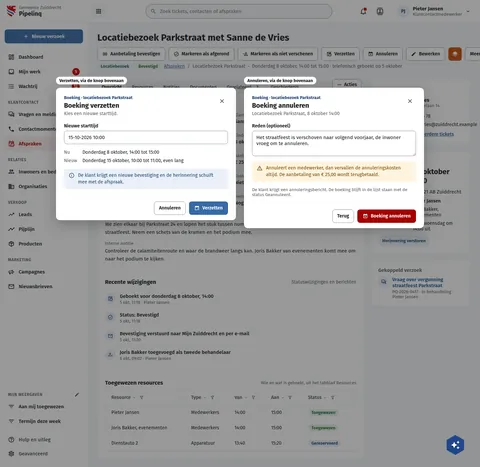
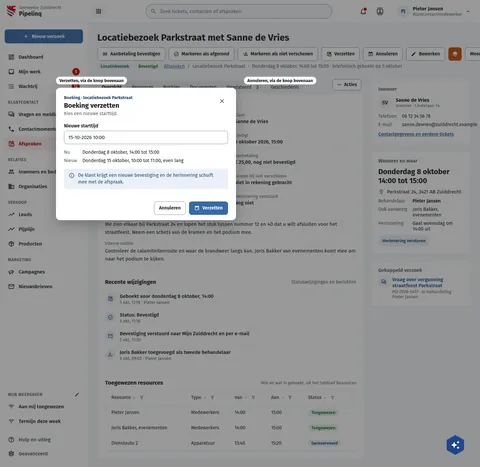
fix(screens): PqAfspraakVerplaatsen draws one dialog, the contacts lens reads Met deals (pl2)
PqAfspraakVerplaatsen drew the reschedule and the cancel dialog at once,
a state the booking page can never show; it keeps the reschedule dialog.
The contacts lens is "Met deals": it filters on contacts with a deal,
and a lens on contact fields cannot ask whether that deal is open (#2548).

Assisted-by: ClaudeCode:claude-opus-5-5

Changed region(s): [[0.5, 0.1799, 0.9062, 0.5096]]

diff --git a/preview/screens/boards/PqAfspraakVerplaatsen.html b/preview/screens/boards/PqAfspraakVerplaatsen.html
@@ -308,14 +308,7 @@ a{color:var(--sc-primary, #3669a5)}a:hover{color:var(--sc-primary-deep, #234a78)
       </div>
       <div style="padding: 20px 24px; display: flex; flex-direction: column; gap: 16px"><div style="display: flex; flex-direction: column; gap: 6px; min-width: 0"><label for="pq-rs-date" style="font-size: 14px; font-weight: 600">Nieuwe starttijd </label><input id="pq-rs-date" type="text" value="15-10-2026 10:00" placeholder="" required style="width: 100%; box-sizing: border-box; border: 1px solid var(--sc-work-field, #828a95); border-radius: 8px; font: 400 15px var(--sc-font, 'Fira Sans'), sans-serif; color: var(--sc-work-ink, #1b1c1d); background: #ffffff; height: 40px; padding: 0 12px"></div><dl style="margin: 0; display: grid; grid-template-columns: max-content 1fr; gap: 8px 16px; font-size: 14px"><dt style="color: var(--sc-work-muted, #5e6168)">Nu</dt><dd style="margin: 0">Donderdag 8 oktober, 14:00 tot 15:00</dd><dt style="color: var(--sc-work-muted, #5e6168)">Nieuw</dt><dd style="margin: 0">Donderdag 15 oktober, 10:00 tot 11:00, even lang</dd></dl><p role="status" style="margin: 0; display: flex; gap: 10px; align-items: flex-start; padding: 10px 14px; border-radius: 8px; background: var(--sc-primary-light, #eaf0f7); color: var(--sc-primary-deep, #234a78); font-size: 14px; line-height: 1.45"><svg width="18" height="18" viewbox="0 0 24 24" fill="currentColor" style="flex: none; margin-top: 1px"><path d="M11,9H13V7H11M12,20C7.59,20 4,16.41 4,12C4,7.59 7.59,4 12,4C16.41,4 20,7.59 20,12C20,16.41 16.41,20 12,20M12,2A10,10 0 0,0 2,12A10,10 0 0,0 12,22A10,10 0 0,0 22,12A10,10 0 0,0 12,2M11,17H13V11H11V17Z"></path></svg><span>De klant krijgt een nieuwe bevestiging en de herinnering schuift mee met de afspraak.</span></p></div>
       <div style="display: flex; flex-wrap: wrap; justify-content: flex-end; gap: 10px; padding: 16px 24px; border-top: 1px solid var(--sc-work-soft, #eef0f3)"><button type="button" style="display: flex; align-items: center; gap: 8px; height: 40px; padding: 0 14px; border: 1px solid var(--sc-work-field, #828a95); border-radius: 8px; background: #ffffff; font: 600 14px var(--sc-font, 'Fira Sans'), sans-serif; color: var(--sc-work-ink, #1b1c1d); white-space: nowrap">Annuleren</button><button type="button" style="display: flex; align-items: center; gap: 8px; height: 40px; padding: 0 16px; border: 0; border-radius: 8px; background: var(--sc-primary, #3669a5); color: #ffffff; font: 600 14px var(--sc-font, 'Fira Sans'), sans-serif; white-space: nowrap"><svg width="16" height="16" viewbox="0 0 24 24" fill="currentColor"><path d="M19 3H18V1H16V3H8V1H6V3H5C3.9 3 3 3.9 3 5V19C3 20.1 3.9 21 5 21H14C13.4 20.5 12.9 19.8 12.5 19H5V8H19V10.6C19.7 10.7 20.4 10.9 21 11.3V5C21 3.9 20.1 3 19 3M18 12.5C19.1 12.5 20.1 12.9 20.8 13.7L22 12.5V16.5H18L19.8 14.7C19.3 14.3 18.7 14 18 14C16.6 14 15.5 15.1 15.5 16.5S16.6 19 18 19C18.8 19 19.5 18.6 20 18H21.7C21.1 19.5 19.7 20.5 18 20.5C15.8 20.5 14 18.7 14 16.5S15.8 12.5 18 12.5Z"></path></svg>Verzetten</button></div>
-    </div></div><div style="flex: 1 1 460px; max-width: 540px; display: flex; flex-direction: column; gap: 10px"><span style="align-self: flex-start; padding: 4px 10px; border-radius: 12px; background: #ffffff; color: var(--sc-work-ink, #1b1c1d); font-size: 13px; font-weight: 700">Annuleren, via de knop bovenaan</span><div role="dialog" aria-modal="true" aria-labelledby="pq-cb-title" style="width: 100%; max-width: 560px; background: #ffffff; border-radius: 12px; box-shadow: 0 12px 40px rgba(27,28,29,0.28); display: flex; flex-direction: column">
-      <div style="display: flex; justify-content: space-between; align-items: flex-start; gap: 16px; padding: 22px 24px 0">
-        <div style="display: flex; flex-direction: column; gap: 4px"><span style="font-size: 13px; font-weight: 700; color: var(--sc-primary-deep, #234a78)">Boeking · locatiebezoek Parkstraat</span><h2 id="pq-cb-title" style="margin: 0; font-size: 20px; font-weight: 700">Boeking annuleren</h2><span style="font-size: 14px; color: var(--sc-work-muted, #5e6168)">Locatiebezoek Parkstraat, 8 oktober 14:00</span></div>
-        <button type="button" aria-label="Sluiten" title="Sluiten" style="width: 36px; height: 36px; flex: none; border: 0; border-radius: 18px; background: transparent; color: var(--sc-work-text, #3d4047); display: inline-flex; align-items: center; justify-content: center"><svg width="20" height="20" viewbox="0 0 24 24" fill="currentColor"><path d="M19,6.41L17.59,5L12,10.59L6.41,5L5,6.41L10.59,12L5,17.59L6.41,19L12,13.41L17.59,19L19,17.59L13.41,12L19,6.41Z"></path></svg></button>
-      </div>
-      <div style="padding: 20px 24px; display: flex; flex-direction: column; gap: 16px"><div style="display: flex; flex-direction: column; gap: 6px; min-width: 0"><label for="pq-cb-reason" style="font-size: 14px; font-weight: 600">Reden (optioneel)</label><textarea id="pq-cb-reason" rows="3" placeholder="Reden van annulering" style="width: 100%; box-sizing: border-box; border: 1px solid var(--sc-work-field, #828a95); border-radius: 8px; font: 400 15px var(--sc-font, 'Fira Sans'), sans-serif; color: var(--sc-work-ink, #1b1c1d); background: #ffffff; padding: 10px 12px; resize: vertical">Het straatfeest is verschoven naar volgend voorjaar, de inwoner vroeg om te annuleren.</textarea></div><p role="status" style="margin: 0; display: flex; gap: 10px; align-items: flex-start; padding: 10px 14px; border-radius: 8px; background: #fff4de; color: #7a4f00; font-size: 14px; line-height: 1.45"><svg width="18" height="18" viewbox="0 0 24 24" fill="currentColor" style="flex: none; margin-top: 1px"><path d="M12,2L1,21H23M12,6L19.53,19H4.47M11,10V14H13V10M11,16V18H13V16"></path></svg><span>Annuleert een medewerker, dan vervallen de annuleringskosten altijd. De aanbetaling van € 25,00 wordt terugbetaald.</span></p><span style="font-size: 13px; color: var(--sc-work-muted, #5e6168)">De klant krijgt een annuleringsbericht. De boeking blijft in de lijst staan met de status Geannuleerd.</span></div>
-      <div style="display: flex; flex-wrap: wrap; justify-content: flex-end; gap: 10px; padding: 16px 24px; border-top: 1px solid var(--sc-work-soft, #eef0f3)"><button type="button" style="display: flex; align-items: center; gap: 8px; height: 40px; padding: 0 14px; border: 1px solid var(--sc-work-field, #828a95); border-radius: 8px; background: #ffffff; font: 600 14px var(--sc-font, 'Fira Sans'), sans-serif; color: var(--sc-work-ink, #1b1c1d); white-space: nowrap">Terug</button><button type="button" style="display: flex; align-items: center; gap: 8px; height: 40px; padding: 0 16px; border: 0; border-radius: 8px; background: var(--sc-accent-deep, #a30000); color: #ffffff; font: 600 14px var(--sc-font, 'Fira Sans'), sans-serif; white-space: nowrap"><svg width="16" height="16" viewbox="0 0 24 24" fill="currentColor"><path d="M19,19H5V8H19M19,3H18V1H16V3H8V1H6V3H5C3.89,3 3,3.9 3,5V19A2,2 0 0,0 5,21H19A2,2 0 0,0 21,19V5A2,2 0 0,0 19,3M9.31,17L11.75,14.56L14.19,17L15.25,15.94L12.81,13.5L15.25,11.06L14.19,10L11.75,12.44L9.31,10L8.25,11.06L10.69,13.5L8.25,15.94L9.31,17Z"></path></svg>Boeking annuleren</button></div>
-    </div></div>
+    </div></div><div style="flex: 1 1 460px; max-width: 540px; display: flex; flex-direction: column; gap: 10px"><span style="align-self: flex-start; padding: 4px 10px; border-radius: 12px; background: #ffffff; color: var(--sc-work-ink, #1b1c1d); font-size: 13px; font-weight: 700">Annuleren, via de knop bovenaan</span></div>
   </div>
 </div>
 <button type="button" aria-label="AI-chat openen" data-sc-ai-chat="button" style="position: fixed; z-index: 9000; right: 48px; bottom: 36px; display: flex; align-items: center; justify-content: center; width: 52px; height: 60px; padding: 0; margin: 0; border: 0; border-radius: 0; background: transparent; color: #ffffff; cursor: pointer"><span style="display: flex; align-items: center; justify-content: center; width: 100%; height: 100%; background: #21468b; clip-path: polygon(50% 0%, 100% 25%, 100% 75%, 50% 100%, 0% 75%, 0% 25%); filter: drop-shadow(0 4px 10px rgba(0, 0, 0, 0.25))"><svg width="28" height="28" viewbox="0 0 24 24" fill="currentColor" aria-hidden="true"><path d="M19,1L17.74,3.75L15,5L17.74,6.26L19,9L20.25,6.26L23,5L20.25,3.75M9,4L6.5,9.5L1,12L6.5,14.5L9,20L11.5,14.5L17,12L11.5,9.5M19,15L17.74,17.74L15,19L17.74,20.25L19,23L20.25,20.25L23,19L20.25,17.74"></path></svg></span></button>

diff --git a/screens-src/zuiddrecht/PqAfspraakVerplaatsen.dc.html b/screens-src/zuiddrecht/PqAfspraakVerplaatsen.dc.html
@@ -115,14 +115,7 @@ a{color:#3669a5}a:hover{color:#234a78}
       </div>
       <div style="padding: 20px 24px; display: flex; flex-direction: column; gap: 16px"><div style="display: flex; flex-direction: column; gap: 6px; min-width: 0"><label for="pq-rs-date" style="font-size: 14px; font-weight: 600">Nieuwe starttijd </label><input id="pq-rs-date" type="text" value="15-10-2026 10:00" placeholder="" required style="width: 100%; box-sizing: border-box; border: 1px solid #828a95; border-radius: 8px; font: 400 15px 'Fira Sans', sans-serif; color: #1b1c1d; background: #ffffff; height: 40px; padding: 0 12px"></div><dl style="margin: 0; display: grid; grid-template-columns: max-content 1fr; gap: 8px 16px; font-size: 14px"><dt style="color: #5e6168">Nu</dt><dd style="margin: 0">Donderdag 8 oktober, 14:00 tot 15:00</dd><dt style="color: #5e6168">Nieuw</dt><dd style="margin: 0">Donderdag 15 oktober, 10:00 tot 11:00, even lang</dd></dl><p role="status" style="margin: 0; display: flex; gap: 10px; align-items: flex-start; padding: 10px 14px; border-radius: 8px; background: #eaf0f7; color: #234a78; font-size: 14px; line-height: 1.45"><svg width="18" height="18" viewBox="0 0 24 24" fill="currentColor" style="flex: none; margin-top: 1px"><path d="M11,9H13V7H11M12,20C7.59,20 4,16.41 4,12C4,7.59 7.59,4 12,4C16.41,4 20,7.59 20,12C20,16.41 16.41,20 12,20M12,2A10,10 0 0,0 2,12A10,10 0 0,0 12,22A10,10 0 0,0 22,12A10,10 0 0,0 12,2M11,17H13V11H11V17Z"></path></svg><span>De klant krijgt een nieuwe bevestiging en de herinnering schuift mee met de afspraak.</span></p></div>
       <div style="display: flex; flex-wrap: wrap; justify-content: flex-end; gap: 10px; padding: 16px 24px; border-top: 1px solid #eef0f3"><button type="button" style="display: flex; align-items: center; gap: 8px; height: 40px; padding: 0 14px; border: 1px solid #828a95; border-radius: 8px; background: #ffffff; font: 600 14px 'Fira Sans', sans-serif; color: #1b1c1d; white-space: nowrap">Annuleren</button><button type="button" style="display: flex; align-items: center; gap: 8px; height: 40px; padding: 0 16px; border: 0; border-radius: 8px; background: #3669a5; color: #ffffff; font: 600 14px 'Fira Sans', sans-serif; white-space: nowrap"><svg width="16" height="16" viewBox="0 0 24 24" fill="currentColor"><path d="M19 3H18V1H16V3H8V1H6V3H5C3.9 3 3 3.9 3 5V19C3 20.1 3.9 21 5 21H14C13.4 20.5 12.9 19.8 12.5 19H5V8H19V10.6C19.7 10.7 20.4 10.9 21 11.3V5C21 3.9 20.1 3 19 3M18 12.5C19.1 12.5 20.1 12.9 20.8 13.7L22 12.5V16.5H18L19.8 14.7C19.3 14.3 18.7 14 18 14C16.6 14 15.5 15.1 15.5 16.5S16.6 19 18 19C18.8 19 19.5 18.6 20 18H21.7C21.1 19.5 19.7 20.5 18 20.5C15.8 20.5 14 18.7 14 16.5S15.8 12.5 18 12.5Z"></path></svg>Verzetten</button></div>
-    </div></div><div style="flex: 1 1 460px; max-width: 540px; display: flex; flex-direction: column; gap: 10px"><span style="align-self: flex-start; padding: 4px 10px; border-radius: 12px; background: #ffffff; color: #1b1c1d; font-size: 13px; font-weight: 700">Annuleren, via de knop bovenaan</span><div role="dialog" aria-modal="true" aria-labelledby="pq-cb-title" style="width: 100%; max-width: 560px; background: #ffffff; border-radius: 12px; box-shadow: 0 12px 40px rgba(27,28,29,0.28); display: flex; flex-direction: column">
-      <div style="display: flex; justify-content: space-between; align-items: flex-start; gap: 16px; padding: 22px 24px 0">
-        <div style="display: flex; flex-direction: column; gap: 4px"><span style="font-size: 13px; font-weight: 700; color: #234a78">Boeking · locatiebezoek Parkstraat</span><h2 id="pq-cb-title" style="margin: 0; font-size: 20px; font-weight: 700">Boeking annuleren</h2><span style="font-size: 14px; color: #5e6168">Locatiebezoek Parkstraat, 8 oktober 14:00</span></div>
-        <button type="button" aria-label="Sluiten" title="Sluiten" style="width: 36px; height: 36px; flex: none; border: 0; border-radius: 18px; background: transparent; color: #3d4047; display: inline-flex; align-items: center; justify-content: center"><svg width="20" height="20" viewBox="0 0 24 24" fill="currentColor"><path d="M19,6.41L17.59,5L12,10.59L6.41,5L5,6.41L10.59,12L5,17.59L6.41,19L12,13.41L17.59,19L19,17.59L13.41,12L19,6.41Z"></path></svg></button>
-      </div>
-      <div style="padding: 20px 24px; display: flex; flex-direction: column; gap: 16px"><div style="display: flex; flex-direction: column; gap: 6px; min-width: 0"><label for="pq-cb-reason" style="font-size: 14px; font-weight: 600">Reden (optioneel)</label><textarea id="pq-cb-reason" rows="3" placeholder="Reden van annulering" style="width: 100%; box-sizing: border-box; border: 1px solid #828a95; border-radius: 8px; font: 400 15px 'Fira Sans', sans-serif; color: #1b1c1d; background: #ffffff; padding: 10px 12px; resize: vertical">Het straatfeest is verschoven naar volgend voorjaar, de inwoner vroeg om te annuleren.</textarea></div><p role="status" style="margin: 0; display: flex; gap: 10px; align-items: flex-start; padding: 10px 14px; border-radius: 8px; background: #fff4de; color: #7a4f00; font-size: 14px; line-height: 1.45"><svg width="18" height="18" viewBox="0 0 24 24" fill="currentColor" style="flex: none; margin-top: 1px"><path d="M12,2L1,21H23M12,6L19.53,19H4.47M11,10V14H13V10M11,16V18H13V16"></path></svg><span>Annuleert een medewerker, dan vervallen de annuleringskosten altijd. De aanbetaling van € 25,00 wordt terugbetaald.</span></p><span style="font-size: 13px; color: #5e6168">De klant krijgt een annuleringsbericht. De boeking blijft in de lijst staan met de status Geannuleerd.</span></div>
-      <div style="display: flex; flex-wrap: wrap; justify-content: flex-end; gap: 10px; padding: 16px 24px; border-top: 1px solid #eef0f3"><button type="button" style="display: flex; align-items: center; gap: 8px; height: 40px; padding: 0 14px; border: 1px solid #828a95; border-radius: 8px; background: #ffffff; font: 600 14px 'Fira Sans', sans-serif; color: #1b1c1d; white-space: nowrap">Terug</button><button type="button" style="display: flex; align-items: center; gap: 8px; height: 40px; padding: 0 16px; border: 0; border-radius: 8px; background: #a30000; color: #ffffff; font: 600 14px 'Fira Sans', sans-serif; white-space: nowrap"><svg width="16" height="16" viewBox="0 0 24 24" fill="currentColor"><path d="M19,19H5V8H19M19,3H18V1H16V3H8V1H6V3H5C3.89,3 3,3.9 3,5V19A2,2 0 0,0 5,21H19A2,2 0 0,0 21,19V5A2,2 0 0,0 19,3M9.31,17L11.75,14.56L14.19,17L15.25,15.94L12.81,13.5L15.25,11.06L14.19,10L11.75,12.44L9.31,10L8.25,11.06L10.69,13.5L8.25,15.94L9.31,17Z"></path></svg>Boeking annuleren</button></div>
-    </div></div>
+    </div></div><div style="flex: 1 1 460px; max-width: 540px; display: flex; flex-direction: column; gap: 10px"><span style="align-self: flex-start; padding: 4px 10px; border-radius: 12px; background: #ffffff; color: #1b1c1d; font-size: 13px; font-weight: 700">Annuleren, via de knop bovenaan</span></div>
   </div>
 </div>
 </x-dc>

diff --git a/preview/screens/boards/PqContacten.html b/preview/screens/boards/PqContacten.html
@@ -243,7 +243,7 @@ a{color:var(--sc-primary, #3669a5)}a:hover{color:var(--sc-primary-deep, #234a78)
           
             <button type="button" aria-pressed="true" style="display: flex; align-items: center; gap: 8px; height: 38px; padding: 0 14px; border-radius: 19px; font: 600 14px var(--sc-font, 'Fira Sans'), sans-serif; border: 0; background: var(--sc-work-ink, #1b1c1d); color: #ffffff;">Alle<span style="padding: 1px 7px; border-radius: 10px; font-size: 12px; background: var(--sc-work-text, #3d4047); color: #ffffff;">186</span></button>
           
-            <button type="button" aria-pressed="false" style="display: flex; align-items: center; gap: 8px; height: 38px; padding: 0 14px; border-radius: 19px; font: 600 14px var(--sc-font, 'Fira Sans'), sans-serif; border: 1px solid var(--sc-work-field, #828a95); background: #ffffff; color: var(--sc-work-ink, #1b1c1d);">Met open deals<span style="padding: 1px 7px; border-radius: 10px; font-size: 12px; background: var(--sc-work-line, #e4e6ea); color: var(--sc-work-text, #3d4047);">14</span></button>
+            <button type="button" aria-pressed="false" style="display: flex; align-items: center; gap: 8px; height: 38px; padding: 0 14px; border-radius: 19px; font: 600 14px var(--sc-font, 'Fira Sans'), sans-serif; border: 1px solid var(--sc-work-field, #828a95); background: #ffffff; color: var(--sc-work-ink, #1b1c1d);">Met deals<span style="padding: 1px 7px; border-radius: 10px; font-size: 12px; background: var(--sc-work-line, #e4e6ea); color: var(--sc-work-text, #3d4047);">14</span></button>
           
           <span style="flex: 1"></span>
           <button type="button" aria-expanded="false" style="display: inline-flex; align-items: center; gap: 8px; height: 36px; padding: 0 12px; border: 1px solid var(--sc-work-field, #828a95); border-radius: 8px; background: #ffffff; font: 600 14px var(--sc-font, 'Fira Sans'), sans-serif; color: var(--sc-work-ink, #1b1c1d)"><svg width="16" height="16" viewbox="0 0 24 24" fill="currentColor"><path d="M8 13C6.14 13 4.59 14.28 4.14 16H2V18H4.14C4.59 19.72 6.14 21 8 21S11.41 19.72 11.86 18H22V16H11.86C11.41 14.28 9.86 13 8 13M8 19C6.9 19 6 18.1 6 17C6 15.9 6.9 15 8 15S10 15.9 10 17C10 18.1 9.1 19 8 19M19.86 6C19.41 4.28 17.86 3 16 3S12.59 4.28 12.14 6H2V8H12.14C12.59 9.72 14.14 11 16 11S19.41 9.72 19.86 8H22V6H19.86M16 9C14.9 9 14 8.1 14 7C14 5.9 14.9 5 16 5S18 5.9 18 7C18 8.1 17.1 9 16 9Z"></path></svg>Filter</button>

diff --git a/preview/screens/boards/PqContactenImporteren.html b/preview/screens/boards/PqContactenImporteren.html
@@ -243,7 +243,7 @@ a{color:var(--sc-primary, #3669a5)}a:hover{color:var(--sc-primary-deep, #234a78)
           
             <button type="button" aria-pressed="true" style="display: flex; align-items: center; gap: 8px; height: 38px; padding: 0 14px; border-radius: 19px; font: 600 14px var(--sc-font, 'Fira Sans'), sans-serif; border: 0; background: var(--sc-work-ink, #1b1c1d); color: #ffffff;">Alle<span style="padding: 1px 7px; border-radius: 10px; font-size: 12px; background: var(--sc-work-text, #3d4047); color: #ffffff;">186</span></button>
           
-            <button type="button" aria-pressed="false" style="display: flex; align-items: center; gap: 8px; height: 38px; padding: 0 14px; border-radius: 19px; font: 600 14px var(--sc-font, 'Fira Sans'), sans-serif; border: 1px solid var(--sc-work-field, #828a95); background: #ffffff; color: var(--sc-work-ink, #1b1c1d);">Met open deals<span style="padding: 1px 7px; border-radius: 10px; font-size: 12px; background: var(--sc-work-line, #e4e6ea); color: var(--sc-work-text, #3d4047);">14</span></button>
+            <button type="button" aria-pressed="false" style="display: flex; align-items: center; gap: 8px; height: 38px; padding: 0 14px; border-radius: 19px; font: 600 14px var(--sc-font, 'Fira Sans'), sans-serif; border: 1px solid var(--sc-work-field, #828a95); background: #ffffff; color: var(--sc-work-ink, #1b1c1d);">Met deals<span style="padding: 1px 7px; border-radius: 10px; font-size: 12px; background: var(--sc-work-line, #e4e6ea); color: var(--sc-work-text, #3d4047);">14</span></button>
           
           <span style="flex: 1"></span>
           <button type="button" aria-expanded="false" style="display: inline-flex; align-items: center; gap: 8px; height: 36px; padding: 0 12px; border: 1px solid var(--sc-work-field, #828a95); border-radius: 8px; background: #ffffff; font: 600 14px var(--sc-font, 'Fira Sans'), sans-serif; color: var(--sc-work-ink, #1b1c1d)"><svg width="16" height="16" viewbox="0 0 24 24" fill="currentColor"><path d="M8 13C6.14 13 4.59 14.28 4.14 16H2V18H4.14C4.59 19.72 6.14 21 8 21S11.41 19.72 11.86 18H22V16H11.86C11.41 14.28 9.86 13 8 13M8 19C6.9 19 6 18.1 6 17C6 15.9 6.9 15 8 15S10 15.9 10 17C10 18.1 9.1 19 8 19M19.86 6C19.41 4.28 17.86 3 16 3S12.59 4.28 12.14 6H2V8H12.14C12.59 9.72 14.14 11 16 11S19.41 9.72 19.86 8H22V6H19.86M16 9C14.9 9 14 8.1 14 7C14 5.9 14.9 5 16 5S18 5.9 18 7C18 8.1 17.1 9 16 9Z"></path></svg>Filter</button>

diff --git a/screens-src/zuiddrecht/PqContactenImporteren.dc.html b/screens-src/zuiddrecht/PqContactenImporteren.dc.html
@@ -92,7 +92,7 @@ class Component extends DCLogic {
       ];
       const view = (on) => 'display: flex; align-items: center; gap: 8px; height: 38px; padding: 0 14px; border-radius: 19px; font: 600 14px \'Fira Sans\', sans-serif; ' + (on ? 'border: 0; background: #1b1c1d; color: #ffffff;' : 'border: 1px solid #828a95; background: #ffffff; color: #1b1c1d;');
       const cnt = (on) => 'padding: 1px 7px; border-radius: 10px; font-size: 12px; ' + (on ? 'background: #3d4047; color: #ffffff;' : 'background: #e4e6ea; color: #3d4047;');
-      const views = [["Alle", 186, true], ["Met open deals", 14, false]].map(([label, count, on]) => ({ label, count, pressed: on ? 'true' : 'false', style: view(on), countStyle: cnt(on) }));
+      const views = [["Alle", 186, true], ["Met deals", 14, false]].map(([label, count, on]) => ({ label, count, pressed: on ? 'true' : 'false', style: view(on), countStyle: cnt(on) }));
       const seg = (on) => 'display: inline-flex; align-items: center; justify-content: center; width: 40px; height: 34px; border: 0; border-radius: 6px; cursor: pointer; ' + (on ? 'background: #ffffff; color: #1b1c1d; box-shadow: 0 1px 2px rgba(27,28,29,0.12);' : 'background: transparent; color: #3d4047;');
       const modes = [["Tabel", 'M7,5H21V7H7V5M7,13V11H21V13H7M4,4.5A1.5,1.5 0 0,1 5.5,6A1.5,1.5 0 0,1 4,7.5A1.5,1.5 0 0,1 2.5,6A1.5,1.5 0 0,1 4,4.5M4,10.5A1.5,1.5 0 0,1 5.5,12A1.5,1.5 0 0,1 4,13.5A1.5,1.5 0 0,1 2.5,12A1.5,1.5 0 0,1 4,10.5M7,19V17H21V19H7M4,16.5A1.5,1.5 0 0,1 5.5,18A1.5,1.5 0 0,1 4,19.5A1.5,1.5 0 0,1 2.5,18A1.5,1.5 0 0,1 4,16.5Z', true], ["Kaarten", 'M3 11H11V3H3M5 5H9V9H5M13 21H21V13H13M15 15H19V19H15M3 21H11V13H3M5 15H9V19H5M13 3V11H21V3M19 9H15V5H19Z', false], ["Bord", 'M4 5V18H21V5H4M14 7V16H11V7H14M6 7H9V16H6V7M19 16H16V7H19V16Z', false], ["Map", 'M12,6.5A2.5,2.5 0 0,1 14.5,9A2.5,2.5 0 0,1 12,11.5A2.5,2.5 0 0,1 9.5,9A2.5,2.5 0 0,1 12,6.5M12,2A7,7 0 0,1 19,9C19,14.25 12,22 12,22C12,22 5,14.25 5,9A7,7 0 0,1 12,2M12,4A5,5 0 0,0 7,9C7,10 7,12 12,18.71C17,12 17,10 17,9A5,5 0 0,0 12,4Z', false]].map(([label, icon, on]) => ({ label, icon, pressed: on ? 'true' : 'false', style: seg(on) }));
       return { nav, views, modes };

diff --git a/screens-src/zuiddrecht/PqContacten.dc.html b/screens-src/zuiddrecht/PqContacten.dc.html
@@ -82,7 +82,7 @@ class Component extends DCLogic {
     ];
     const view = (on) => 'display: flex; align-items: center; gap: 8px; height: 38px; padding: 0 14px; border-radius: 19px; font: 600 14px \'Fira Sans\', sans-serif; ' + (on ? 'border: 0; background: #1b1c1d; color: #ffffff;' : 'border: 1px solid #828a95; background: #ffffff; color: #1b1c1d;');
     const cnt = (on) => 'padding: 1px 7px; border-radius: 10px; font-size: 12px; ' + (on ? 'background: #3d4047; color: #ffffff;' : 'background: #e4e6ea; color: #3d4047;');
-    const views = [["Alle", 186, true], ["Met open deals", 14, false]].map(([label, count, on]) => ({ label, count, pressed: on ? 'true' : 'false', style: view(on), countStyle: cnt(on) }));
+    const views = [["Alle", 186, true], ["Met deals", 14, false]].map(([label, count, on]) => ({ label, count, pressed: on ? 'true' : 'false', style: view(on), countStyle: cnt(on) }));
     const seg = (on) => 'display: inline-flex; align-items: center; justify-content: center; width: 40px; height: 34px; border: 0; border-radius: 6px; cursor: pointer; ' + (on ? 'background: #ffffff; color: #1b1c1d; box-shadow: 0 1px 2px rgba(27,28,29,0.12);' : 'background: transparent; color: #3d4047;');
     const modes = [["Tabel", 'M7,5H21V7H7V5M7,13V11H21V13H7M4,4.5A1.5,1.5 0 0,1 5.5,6A1.5,1.5 0 0,1 4,7.5A1.5,1.5 0 0,1 2.5,6A1.5,1.5 0 0,1 4,4.5M4,10.5A1.5,1.5 0 0,1 5.5,12A1.5,1.5 0 0,1 4,13.5A1.5,1.5 0 0,1 2.5,12A1.5,1.5 0 0,1 4,10.5M7,19V17H21V19H7M4,16.5A1.5,1.5 0 0,1 5.5,18A1.5,1.5 0 0,1 4,19.5A1.5,1.5 0 0,1 2.5,18A1.5,1.5 0 0,1 4,16.5Z', true], ["Kaarten", 'M3 11H11V3H3M5 5H9V9H5M13 21H21V13H13M15 15H19V19H15M3 21H11V13H3M5 15H9V19H5M13 3V11H21V3M19 9H15V5H19Z', false], ["Bord", 'M4 5V18H21V5H4M14 7V16H11V7H14M6 7H9V16H6V7M19 16H16V7H19V16Z', false], ["Map", 'M12,6.5A2.5,2.5 0 0,1 14.5,9A2.5,2.5 0 0,1 12,11.5A2.5,2.5 0 0,1 9.5,9A2.5,2.5 0 0,1 12,6.5M12,2A7,7 0 0,1 19,9C19,14.25 12,22 12,22C12,22 5,14.25 5,9A7,7 0 0,1 12,2M12,4A5,5 0 0,0 7,9C7,10 7,12 12,18.71C17,12 17,10 17,9A5,5 0 0,0 12,4Z', false]].map(([label, icon, on]) => ({ label, icon, pressed: on ? 'true' : 'false', style: seg(on) }));
     return { nav, views, modes };
